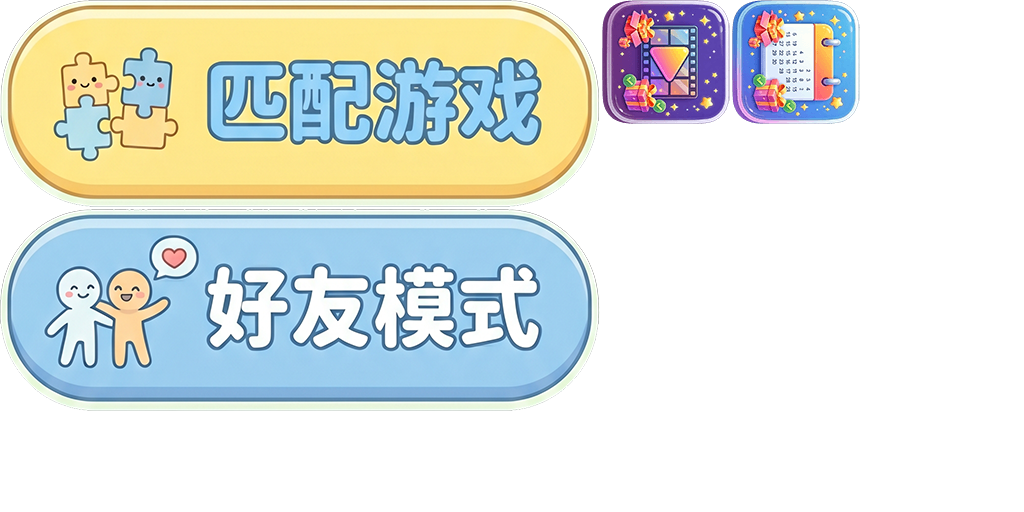
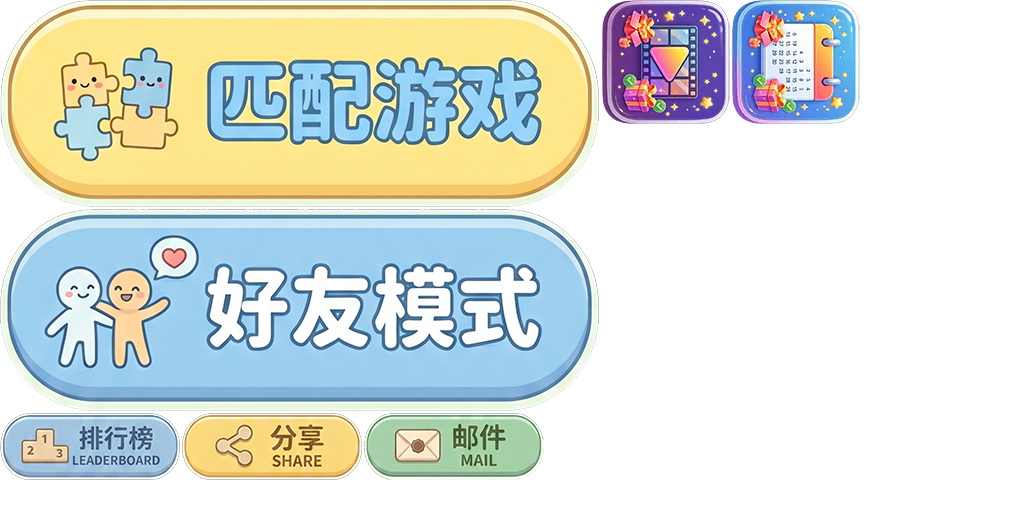
fix(fgui): 调整大厅主界面按钮位置及资源更新
- 修改UI_BTN_MAILS、UI_BTN_RANK、UI_BTN_SHARE按钮的位置和尺寸
- 更新按钮图标资源并替换对应图片文件
- 将UI_TXT_ENV文本组件移动至按钮列表末尾，调整初始化顺序
- 移除已废弃的mail.png和rank.png图片资源引用，新增btnMail、btnRank、btnShare和btnStore图片资源
- 更新lobby.bin和资源图集以匹配UI改动

Changed region(s): [[0.0, 0.7812, 0.5312, 0.9375]]

diff --git a/assets/scripts/fgui/lobby/FGUICompLobbyMain.ts b/assets/scripts/fgui/lobby/FGUICompLobbyMain.ts
@@ -14,10 +14,10 @@ export default class FGUICompLobbyMain extends fgui.GComponent {
 	public UI_COMP_TOP:FGUICompTop;
 	public UI_BTN_MAILS:fgui.GButton;
 	public UI_BTN_RANK:fgui.GButton;
-	public UI_TXT_ENV:fgui.GTextField;
 	public UI_BTN_SHARE:fgui.GButton;
 	public UI_BTN_SIGN_IN:fgui.GButton;
 	public UI_BTN_AD:fgui.GButton;
+	public UI_TXT_ENV:fgui.GTextField;
 	public static URL:string = "ui://gv22rev3ln74i";
 
 	public static packageName:string = "lobby";
@@ -67,13 +67,13 @@ export default class FGUICompLobbyMain extends fgui.GComponent {
 		this.UI_BTN_MAILS.onClick(this.onBtnMails, this);
 		this.UI_BTN_RANK = <fgui.GButton>(this.getChildAt(4));
 		this.UI_BTN_RANK.onClick(this.onBtnRank, this);
-		this.UI_TXT_ENV = <fgui.GTextField>(this.getChildAt(5));
-		this.UI_BTN_SHARE = <fgui.GButton>(this.getChildAt(6));
+		this.UI_BTN_SHARE = <fgui.GButton>(this.getChildAt(5));
 		this.UI_BTN_SHARE.onClick(this.onBtnShare, this);
-		this.UI_BTN_SIGN_IN = <fgui.GButton>(this.getChildAt(7));
+		this.UI_BTN_SIGN_IN = <fgui.GButton>(this.getChildAt(6));
 		this.UI_BTN_SIGN_IN.onClick(this.onBtnSignIn, this);
-		this.UI_BTN_AD = <fgui.GButton>(this.getChildAt(8));
+		this.UI_BTN_AD = <fgui.GButton>(this.getChildAt(7));
 		this.UI_BTN_AD.onClick(this.onBtnAd, this);
+		this.UI_TXT_ENV = <fgui.GTextField>(this.getChildAt(8));
 	}
 	scheduleOnce(callback: () => void, delay: number):void{};
 	unscheduleAllCallbacks():void{};
